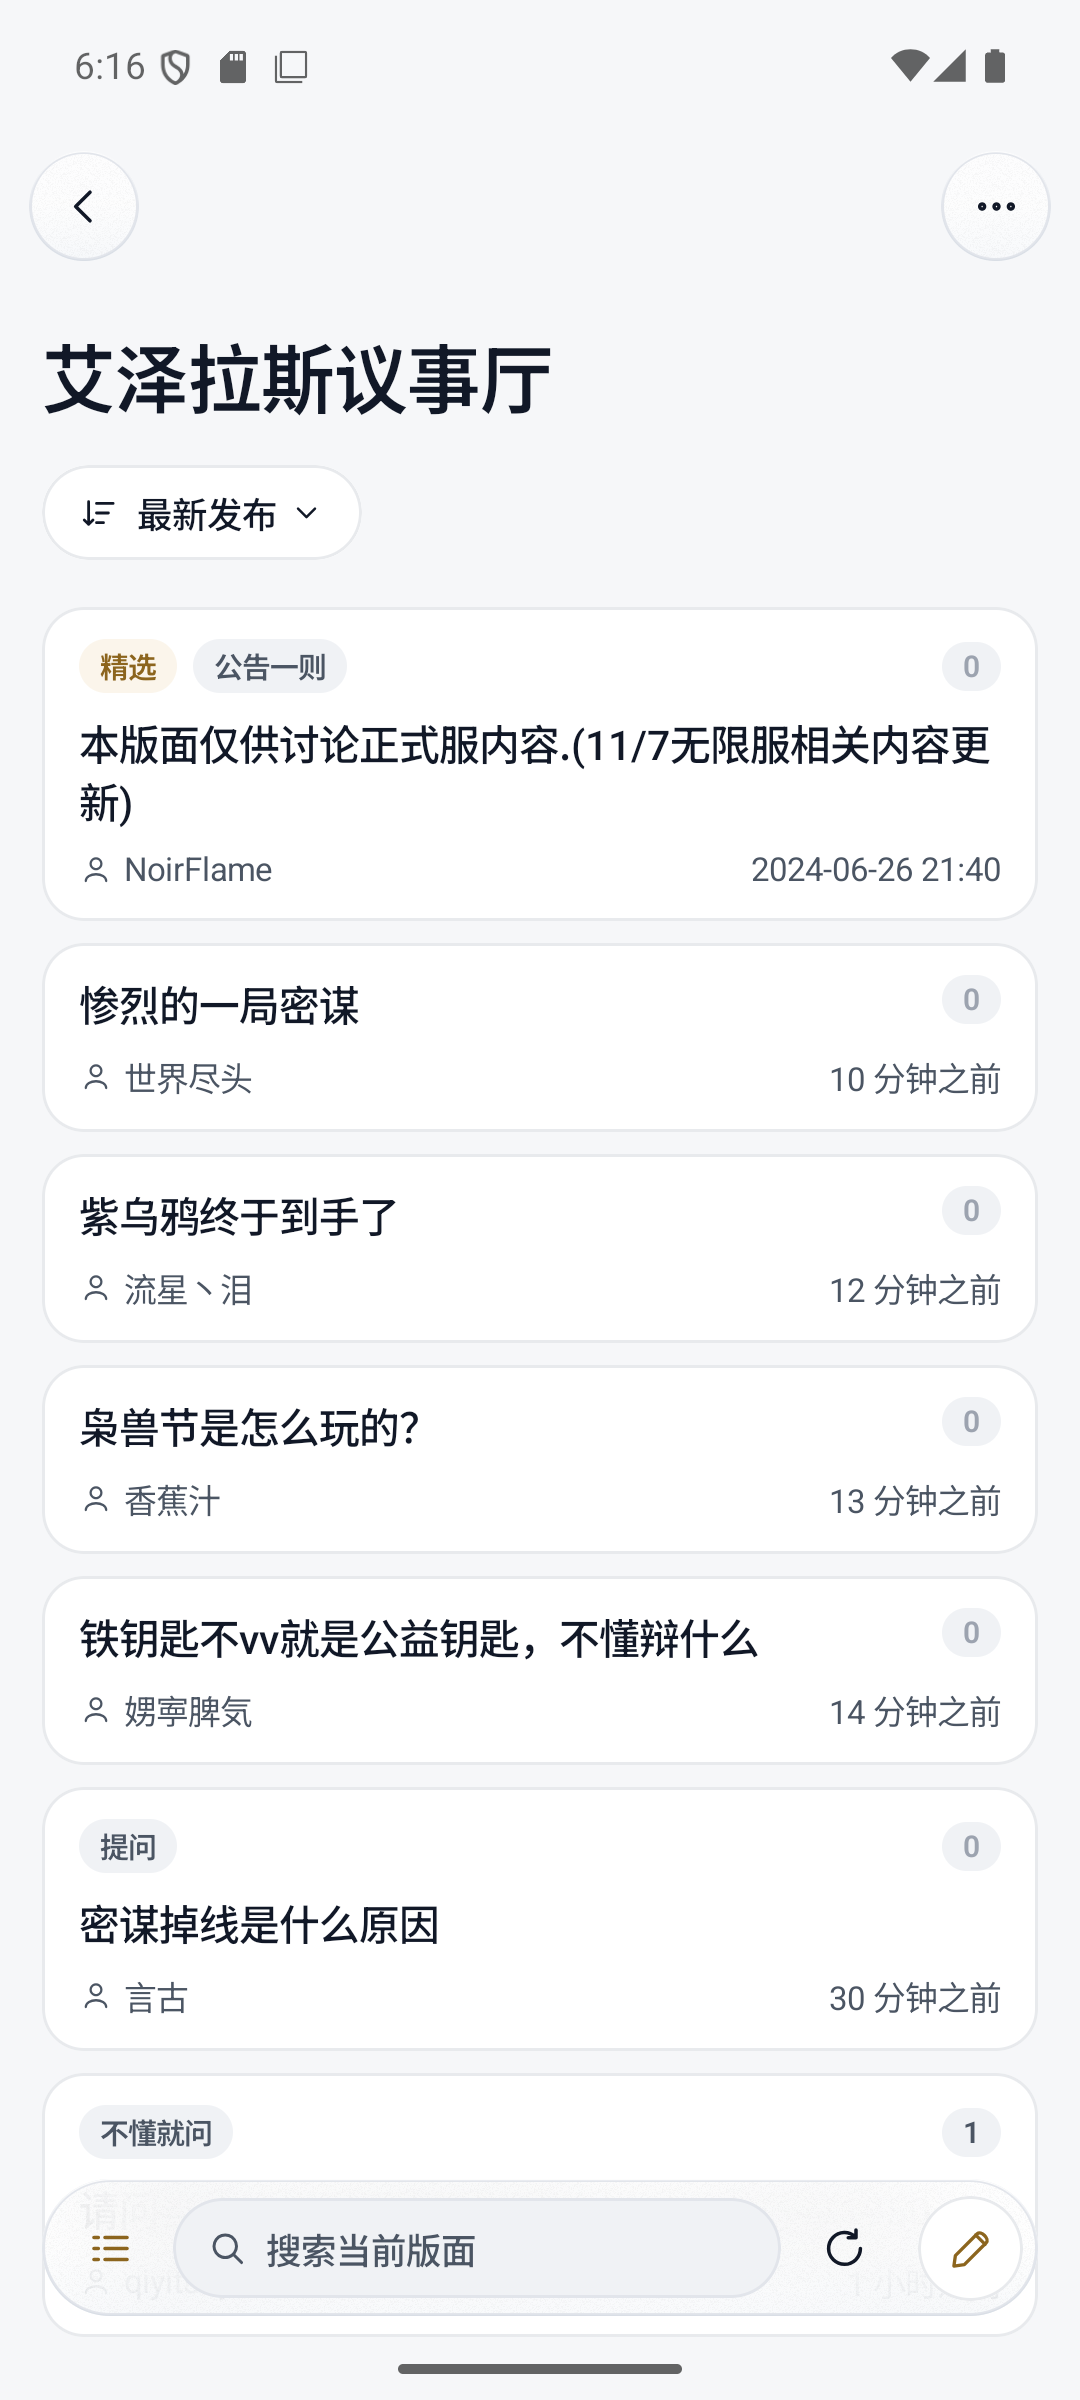
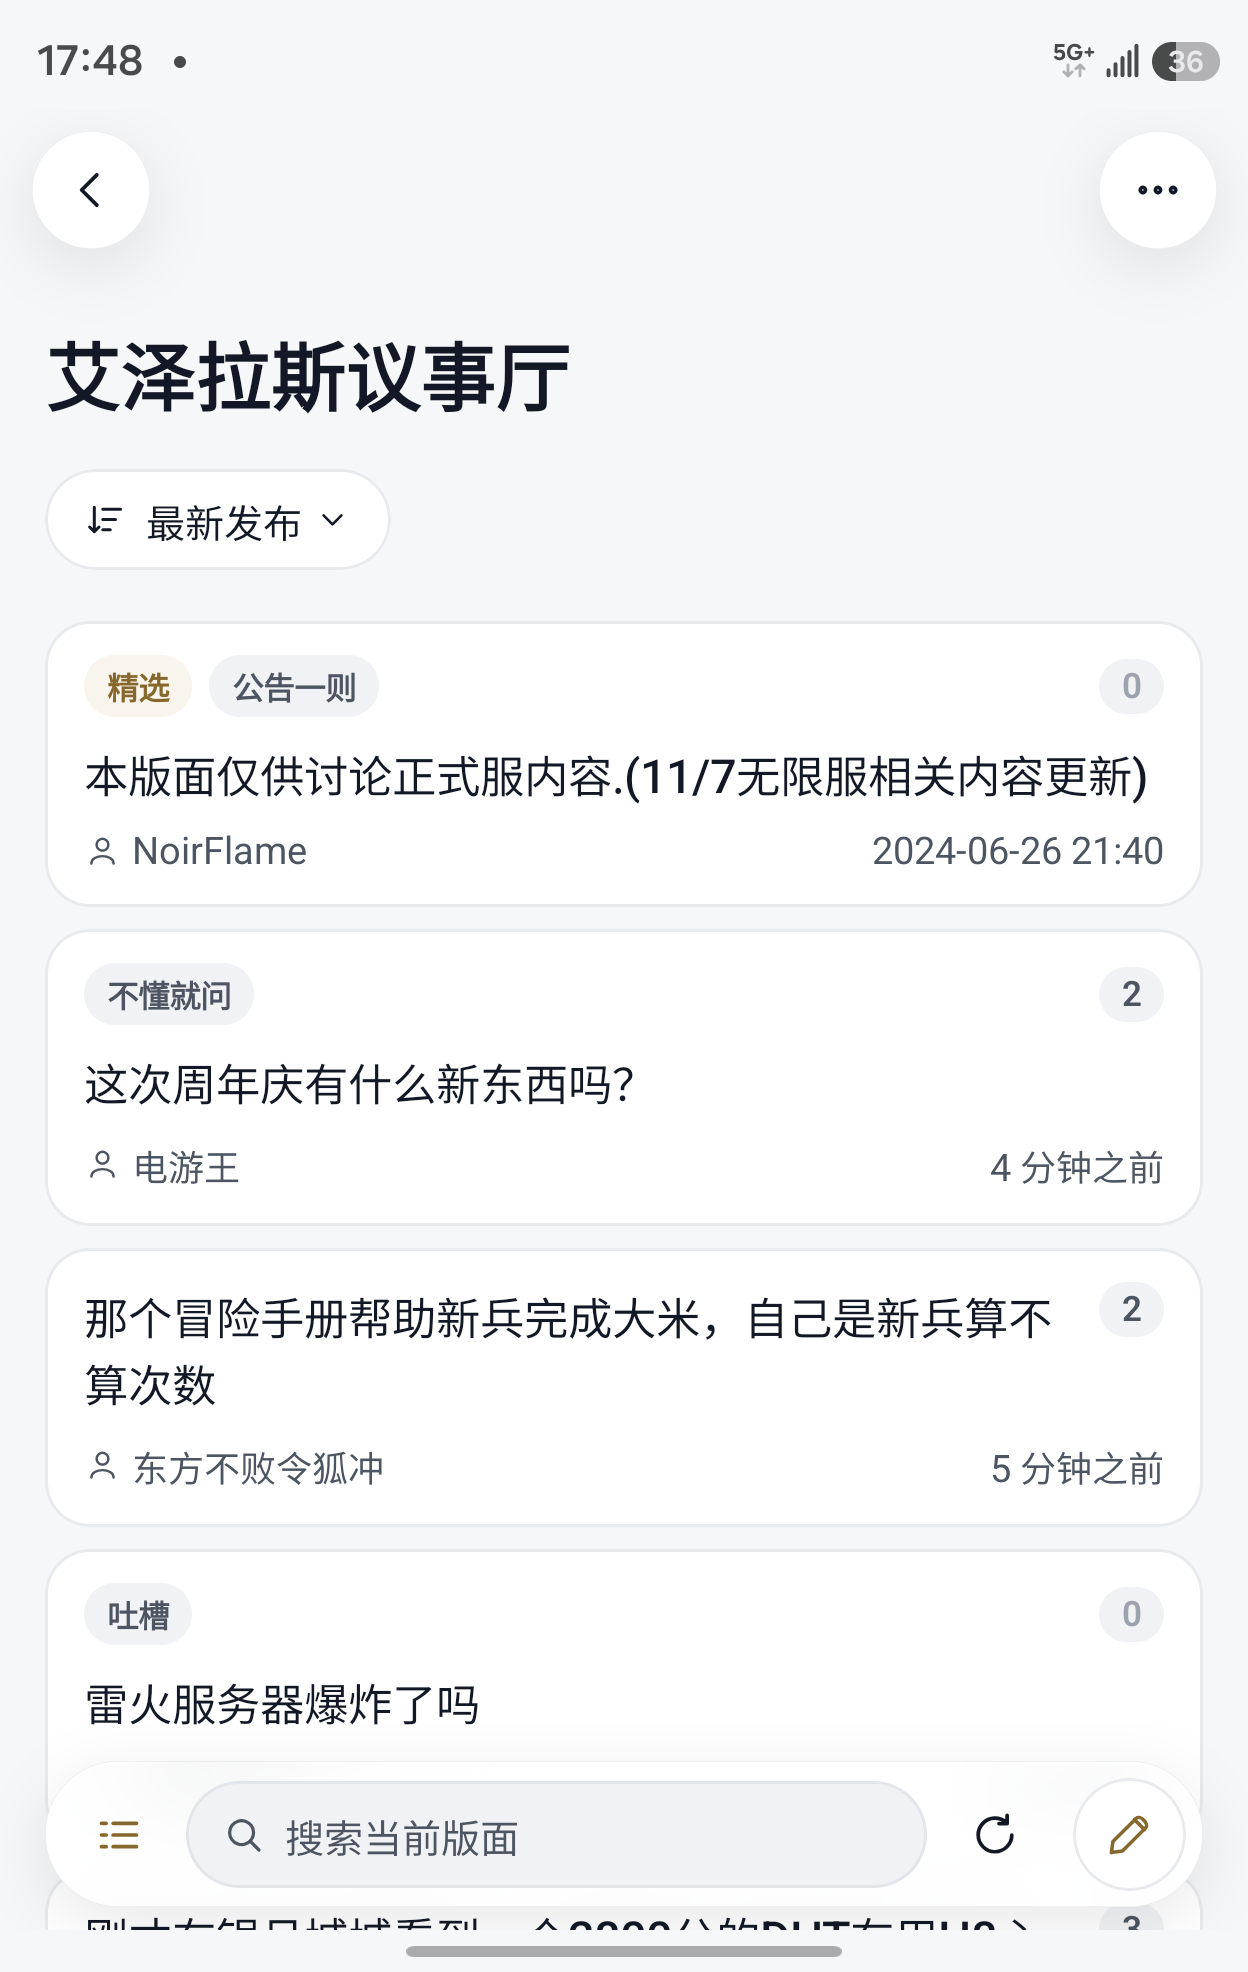
docs(readme): update showcase screenshots for portrait and unfolded layouts

diff --git a/README.md b/README.md
@@ -23,12 +23,11 @@ Nagi 是一个非官方 NGA Android 客户端，使用 Kotlin 和 Jetpack Compos
 
 ## 截图
 
-艾泽拉斯议事厅帖子列表，截自 Android 模拟器。展开态通过调整模拟器为 2208×1840 尺寸展示，
-仅演示宽屏布局，不代表真实折叠行为已验证。
+艾泽拉斯议事厅帖子列表与阅读器截图，展示竖屏、折叠屏展开单栏与展开双栏布局。
 
-| 竖屏 | 折叠屏展开尺寸（模拟） |
-| --- | --- |
-| <img src="docs/images/azeroth-topics-portrait.png" alt="艾泽拉斯议事厅竖屏帖子列表" width="270"> | <img src="docs/images/azeroth-topics-expanded.png" alt="艾泽拉斯议事厅模拟折叠屏展开尺寸的帖子列表" width="552"> |
+| 竖屏 | 折叠屏展开（单栏） | 折叠屏展开（双栏） |
+| --- | --- | --- |
+| <img src="docs/images/azeroth-topics-portrait.png" alt="艾泽拉斯议事厅竖屏帖子列表" width="220"> | <img src="docs/images/azeroth-topics-unfolded-list.jpg" alt="艾泽拉斯议事厅折叠屏展开单栏帖子列表" width="265"> | <img src="docs/images/azeroth-topics-expanded.jpg" alt="艾泽拉斯议事厅折叠屏展开双栏列表与阅读器" width="465"> |
 
 ## 构建
 
